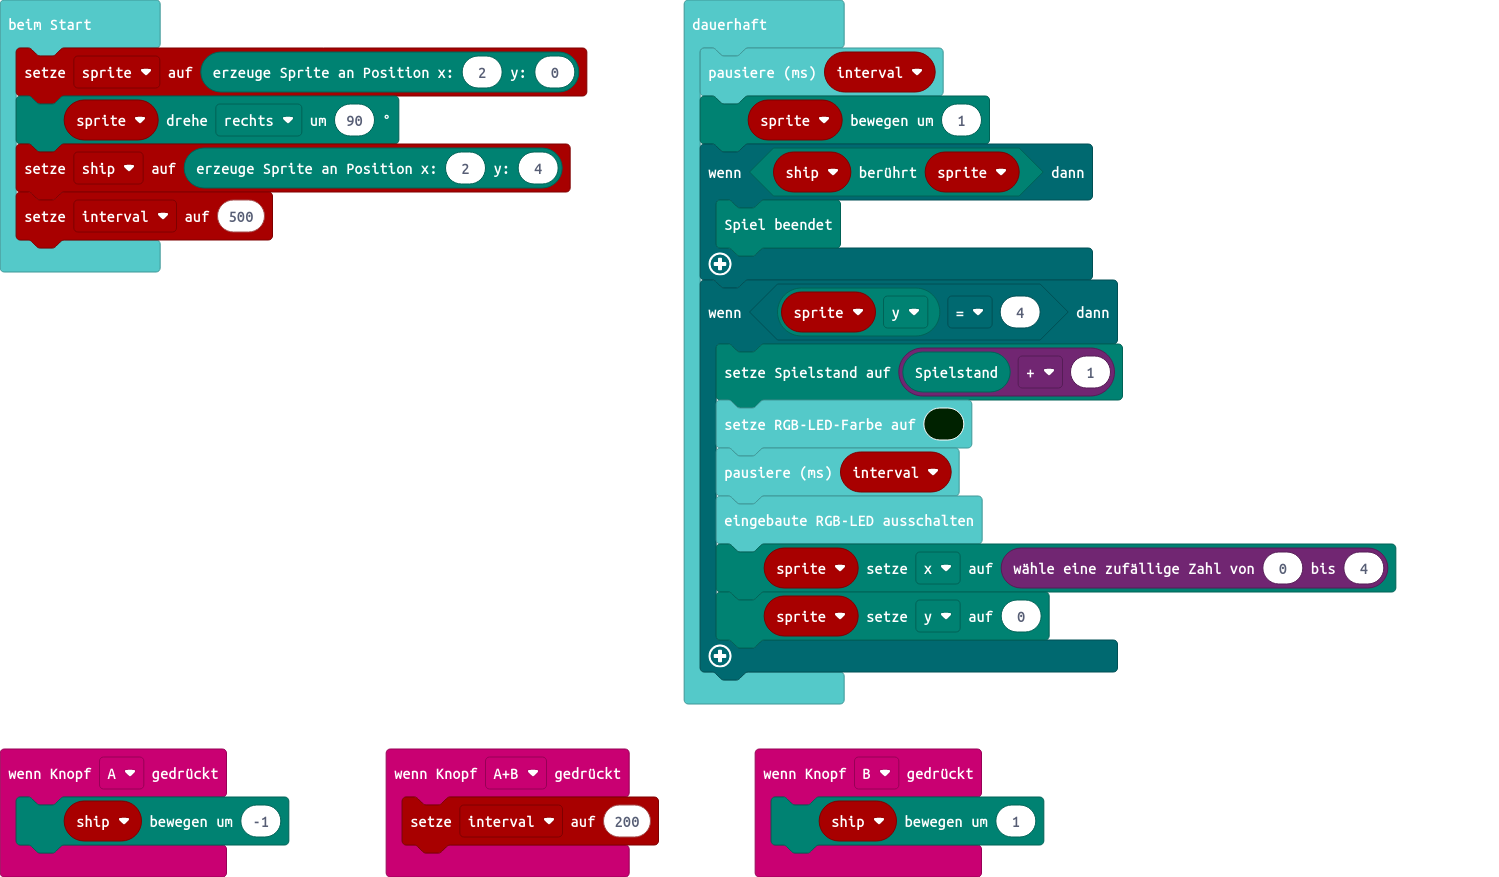
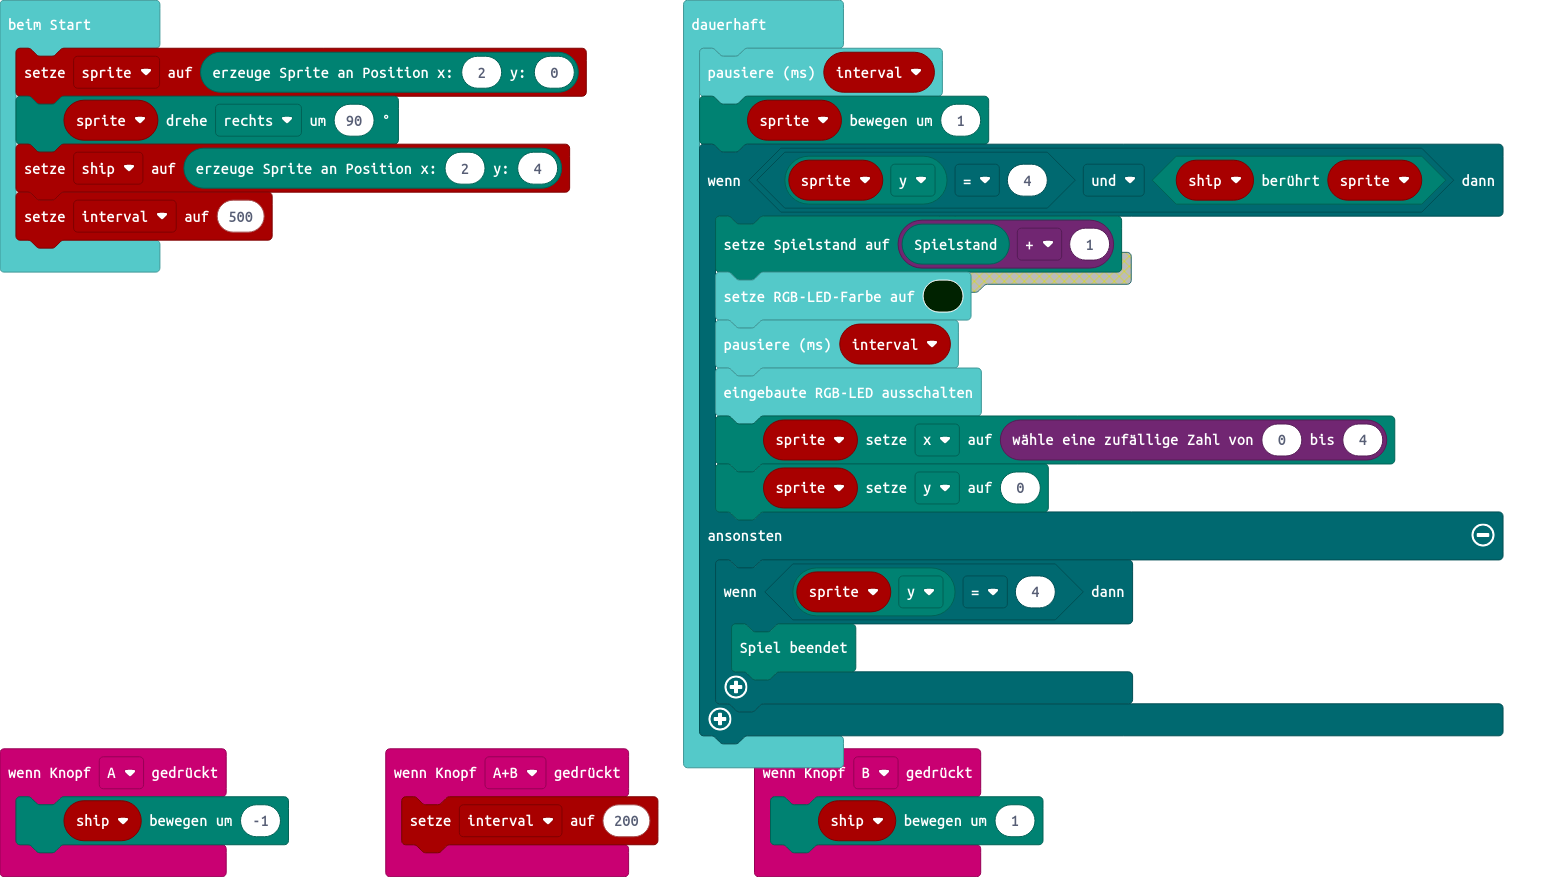
changed mode

Changed region(s): [[0.2455, 0.0, 0.982, 1.0], [0.0, 0.0, 0.3989, 0.3079], [0.0, 0.862, 0.2148, 1.0]]

diff --git a/main.ts b/main.ts
@@ -16,15 +16,16 @@ interval = 500
 basic.forever(function () {
     basic.pause(interval)
     sprite.move(1)
-    if (ship.isTouching(sprite)) {
-        game.gameOver()
-    }
-    if (sprite.get(LedSpriteProperty.Y) == 4) {
+    if (sprite.get(LedSpriteProperty.Y) == 4 && ship.isTouching(sprite)) {
         game.setScore(game.score() + 1)
         basic.setLedColor(0x002200)
         basic.pause(interval)
         basic.turnRgbLedOff()
         sprite.set(LedSpriteProperty.X, randint(0, 4))
         sprite.set(LedSpriteProperty.Y, 0)
+    } else {
+        if (sprite.get(LedSpriteProperty.Y) == 4) {
+            game.gameOver()
+        }
     }
 })
